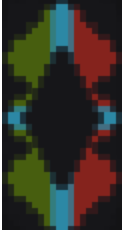
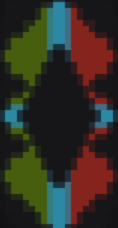
v2.0.0 Alpha 1 - Great Update
- Added `/flaglist` commandm which lists all flag commands.
- Added Eregore flag & command
- Added Red Skull flag & command
- Edited certain flags to look better
- Edited README

diff --git a/bot.js b/bot.js
@@ -1,9 +1,14 @@
 // Require the necessary discord.js classes
-const { Client, AttachmentBuilder, Events, GatewayIntentBits } = require('discord.js');
+const { Client, AttachmentBuilder, Events, GatewayIntentBits, BaseInteraction } = require('discord.js');
 
 const { token } = require('./config.json');
 const { pathToFileURL } = require('url');
+const { EmbedBuilder } = require('discord.js'); // To use embeds
+const { title } = require('process');
 const prefix = '!'
+
+const { SlashCommandBuilder } = require('discord.js');
+const { CommandInteraction } = require('discord.js');
 
 // Create a new client (bot) instance
 const client = new Client({ 
@@ -27,24 +32,63 @@ client.on('messageCreate', (message) => {
     }
 });
 
-// List of all commands and flags
-//client.on('messageCreate', (message) => {
-    //if (message.content === '?flaglist') {
-        //message.reply({ content: 
-        // '(list of flags'})
-    //}
-//})
+// Embed for the flaglist
+const flagslist = new EmbedBuilder()
+.setColor('Navy')
+.setTitle('List of all Flag Commands')
+.setDescription('All flags currently available in this bot')
+.addFields(
+    { name: 'Usage: ', value: '`!<flag id>`' }, // Empty value
+    { name: 'Existing Country Flags', value: '`Nordia`,`Thalizar`,`Nova`,`Jiyustan`' },
+    { name: 'Old Country Flags', value: '`Serenthia`, `Luxuria`, `Red Skull`' },
+    { name: 'Minor/legacy flags', value: '`Eregore` (Nordian Realm),' }
+)
 
-// Handle commands
+// List of all commands and flags (legacy command version using '!')
+client.on('messageCreate', (message) => {
+    if (message.content === '!flaglist') {
+        message.reply({ embeds: [flagslist] }) // Send Embed
+    }
+})
+
+// Registering the Slash Command (replying to)
+client.on('interactionCreate', async interaction => {
+    if (!interaction.isCommand()) return;
+
+    const { commandName } = interaction;
+
+    if (commandName === 'flaglist') {
+        await interaction.reply({ embeds: [flagslist] })
+        
+    }
+});
+
+// Register commands globally
+client.once('ready', async () => {
+    const data = [
+        new SlashCommandBuilder()
+            .setName('flaglist') // Slash command to list all flags
+            .setDescription('Lists all commands and flags')
+    ];
+    
+    await client.application.commands.set(data);
+    console.log('Slash command(s) registered!');
+});
+
+
+
+// Handle '!' commands
 client.on('messageCreate', (message) => {
     if (message.content === '!Nordia') { // Nordia
         const nordiaflag = new AttachmentBuilder('./assets/Nordian Flag.png');
         message.channel.send({ content: 'Standard of The Sublime Shogunate of Nordia', files: [nordiaflag] });
     }
+    
     if (message.content === '!Serenthia') { // Serenthia
         const serenthiaflag = new AttachmentBuilder('./assets/Serenthia Flag.png');
         message.channel.send({ content: 'Flag of the Kingdom of Serenthia', files: [serenthiaflag] });
     }
+
     if (message.content === '!Jiyustan') { // Jiyustan
             const jiyustanflag = new AttachmentBuilder('./assets/Jiyustan Flag.png');
             message.channel.send({content: 'Flag of Jiyustan', files: [jiyustanflag] });
@@ -52,16 +96,28 @@ client.on('messageCreate', (message) => {
 
     if (message.content === '!Nova') { // Nova
         const novaflag = new AttachmentBuilder('./assets/Nova Flag.png');
-        message.channel.send({ content: 'The Flag of Nova', files: [novaflag ]});
+        message.channel.send({ content: 'Flag of the Republic of Nova', files: [novaflag ]});
     }
+    
     if (message.content === '!Luxuria') { // Luxuria
         const luxuriaflag = new AttachmentBuilder('./assets/Luxuria Flag.png')
-        message.channel.send({content: 'Flag of Luxuria.png', files: [luxuriaflag]});
+        message.channel.send({content: 'Flag of Luxuria', files: [luxuriaflag]});
     }
+    
     if (message.content === '!Thalizar') { // Thalizar
         const thalizarflag = new AttachmentBuilder('./assets/Thalizar Flag.png')
-        message.channel.send({content: 'Flag of the Thalizar Empire.png', files: [thalizarflag]});
+        message.channel.send({content: 'Flag of the Thalizar Empire', files: [thalizarflag]});
     }
+
+    if (message.content === '!Eregore') { // Eregore
+        const eregoreflag = new AttachmentBuilder('./assets/Eregore Flag.png') // *This flag may be slightly inaccurate
+        message.channel.send({content: 'Flag of Eregore', files: [eregoreflag]});
+    }
+    if (message.content === '!Red Skull') { // Red Skull
+        const redskullflag = new AttachmentBuilder('./assets/Red Skull Flag.png') // *This flag may be slightly inaccurate
+        message.channel.send({content: 'Flag of the Red Skull Sultanate', files: [redskullflag]})
+    }
+
 });
 
 

diff --git a/test.js b/test.js
@@ -2,8 +2,11 @@ const { Client, GatewayIntentBits, AttachmentBuilder } = require('discord.js');
 const client = new Client({ intents: [GatewayIntentBits.Guilds, GatewayIntentBits.GuildMessages, GatewayIntentBits.MessageContent] });
 const { token } = require('./config.json');
 
+const {SlashCommandBuilder} = require('discord.js')
+const { EmbedBuilder } = require('discord.js')
+
 client.once('ready', () => {
-    console.log('Testing is ready!');
+    console.log('Testing bot is ready!');
 });
 
 client.on('messageCreate', message => {
@@ -12,5 +15,44 @@ client.on('messageCreate', message => {
         message.channel.send({ content: 'Here is your image:', files: [attachment] });
     }
 });
+
+
+
+// Embed for the flaglist
+const flagslist = new EmbedBuilder()
+.setColor('DarkGold')
+.setTitle('List of all Flag Commands')
+.setDescription('All flags currently available in this bot')
+.addFields(
+    { name: 'Usage: ', value: '`!<flag id>`' }, //
+    { name: 'Existing Country Flags', value: '`Nordia`,`Thalizar`,`Nova`,`Jiyustan`' },
+    { name: 'Old Country Flags', value: '`Serenthia`, `Luxuria`' },
+    { name: 'Minor/legacy flags', value: '`To be added`, ' }
+)
+
+
+client.on('interactionCreate', async interaction => {
+    if (!interaction.isCommand()) return;
+
+    const { commandName } = interaction;
+
+    if (commandName === 'flaglist') {
+        await interaction.reply({ embeds: [flagslist] })
+    }
+});
+
+
+client.once('ready', async () => {
+    const data = [
+        new SlashCommandBuilder()
+            .setName('flaglist')
+            .setDescription('Lists all flag commands'),
+            
+    ];
+    
+    await client.application.commands.set(data);
+    console.log('Slash commands registered');
+});
+
 
 client.login(token);

diff --git a/README.md b/README.md
@@ -10,13 +10,16 @@ Disclaimer: This bot uses the following privileged intents to function:
 ### Features:
 Features the following flags, along with a subtitle:
 - Nordia
-- Serenthia
+- Jiyustan
 - Thalizar
 - Nova
 - Luxuria
+- Serenthia
+- Red Skull
+- Eregore
 
 ### Checklist
-- [ ] Add a list of commands
+- [x] Add a list of commands
 - [x] Attach images of the flags to the responses
 - [x] Add Nordia flag
 - [x] Add Serenthia flag
@@ -24,21 +27,26 @@ Features the following flags, along with a subtitle:
 - [x] Add Nova flag
 - [x] Add Luxuria flag
 - [x] Add Jiyustan flag
-- [ ] Distinguish between Jiyustan and Serenthia
+- [x] Distinguish between Jiyustan and Serenthia
 - [ ] Add other 'minor' flags
-    - [ ] Eregore (Realm of Nordia)
+    - [x] Eregore (Realm of Nordia)
     - [ ] Kastavia (Realm of Nordia)
-    - [ ] The Red Skull (Defunct Country)
+    - [x] The Red Skull (Defunct Country)
     - [ ] Laxamentum (Defunct Country)
     - [ ] Rainy and tgforce14's 'rebellion flag'
+    - [ ] Old Nova flag
     
 - [ ] Enable customisation somehow
 - [ ] Add better artwork and assets
-- [ ] ~~Possibly rework reply system to use embeds~~ 
-- [ ] ~~Possibly change how commands are handled to use a different system~~
+    - [x] Edit certain flags to look better
+    - [ ] Add a better banner
+- [ ] *Possibly* rework reply system to use embeds
+- [ ] *Possibly* change how commands are handled to use a different system
 
 ### How to use
 Use the [bot invite](https://discord.com/oauth2/authorize?client_id=1309719801165385728&permissions=116736&integration_type=0&scope=bot), and invite the bot to your desired server.
+
+To see a list of all commands, use `/flaglist`
 
 To display one of the flags, type in one of the commands below:
 - !Nordia
@@ -49,24 +57,48 @@ To display one of the flags, type in one of the commands below:
 
 ### Self-Hosting
 1. Clone the repository onto your device <br>
-    `gh repo clone HEofOttoman/Canary-Craft-Flag-bot`
+    ```
+    gh repo clone HEofOttoman/Canary-Craft-Flag-bot
+    ```
 
 2. Install NodeJS
     
-3. Install Discord.js. <br>
-    `npm install discord.js`
+3. Install Discord.js with npm. <br>
+    ```
+    npm install discord.js
+    ```
 
-4. Create a file named `config.json` 
+4. Create a JSON file named `config.json` 
 
 5. Create a variable named `token` in `config.json`
 
 6. Inside the `token` variable, insert your own bot
 
 7. Your `config.json` file should look like this:
-    `{"token" : "your_token_here"}`
+    ```
+    {"token" : "your_token_here"}
+    ```
 
-8. Run `node bot.js`
+8. Run `bot.js`
+    ```
+    node bot.js
+    ```
+
+### Customisation (WIP)
+Work in progress.
+
+1. Create the flag you wish to display, and put it in the `assets` folder.
+2. Customise the following code to suit the flag.
+    ```
+    client.on('messageCreate', (message) => {
+        if (message.content === '!commandnamehere') {
+            const yourflagnamehere = new AttachmentBuilder('./assets/yourflagpathhere');
+            message.channel.send({ content: 'Your Caption Here', files: [nordiaflag] });
+        }
+    });
+    ```
+3. Paste your new code within `bot.js`.
 
 ### Credits
-- Bot & code © HenryWauzivuff.
+- Bot & code © HenryWauzivuf 2025.
 - Made for Hack Club High Seas
